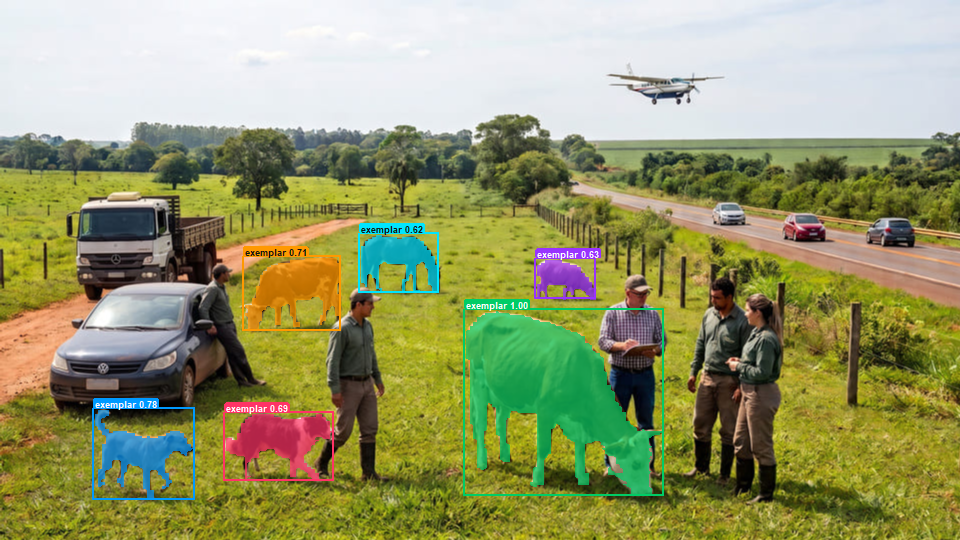
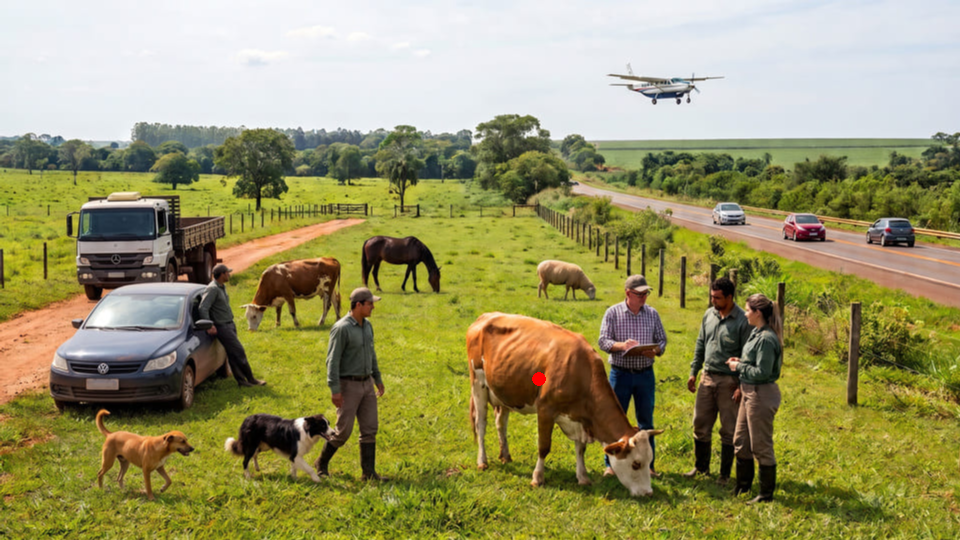
feat: add deep learning benchmark and session management utilities

Changed region(s): [[0.25, 0.4148, 0.6875, 0.9185], [0.0938, 0.7111, 0.3438, 0.9481]]

diff --git a/README.md b/README.md
@@ -394,21 +394,25 @@ non-maximum suppression, mask decoding, SAHI tiling and video tracking also run 
 - For video, `infer_every`, `fps`, `imgsz` and `show = FALSE` are the main speed levers.
 
 ```r
-# Measure inference speed on this machine
-yolo_benchmark("yolo26n", engine = "gpu")
-yolo_benchmark("yolo26n", engine = "cpu", sahi = TRUE)
+# Measure inference speed on this machine, using the farm image
+farm <- image_pliman("farm.jpg")
+yolo_benchmark("yolo26n", img = farm, engine = "gpu")
+yolo_benchmark("yolo26n", img = farm, engine = "cpu", sahi = TRUE)
 
 # Inspect cached ONNX sessions
 pliman_session_info()
 
 # Video detection with tracking and line counting
-res <- video_detect_dl(
-  "conveyor.mp4",
-  model = "yolo26n",
-  track = TRUE,
-  count_line = c(0.5, 0, 0.5, 1),
-  infer_every = 2,
-  output = "annotated.mp4"
+tracked <- video_detect_dl(
+  video                  = "video.mp4",         # input video (or a camera index, e.g. 0)
+  output                 = "video_tracked.mp4", # annotated video saved to this file
+  model                  = "yolo26n-seg",       # YOLO26 segmentation model (boxes + masks)
+  engine                 = "gpu",               # run on the GPU (DirectML); use "cpu" otherwise
+  track                  = TRUE,                # keep the same ID for each object across frames
+  roi                    = c(0.5, 1),           # region of interest: from 50% to 100% of the width
+  roi_orientation        = "vertical",          # the ROI is a vertical band (right half of the frame)
+  count_line             = 0.5,                 # counting line at 50% of the width
+  count_line_orientation = "vertical"           # the line is vertical; objects crossing it are counted
 )
 ```
 
